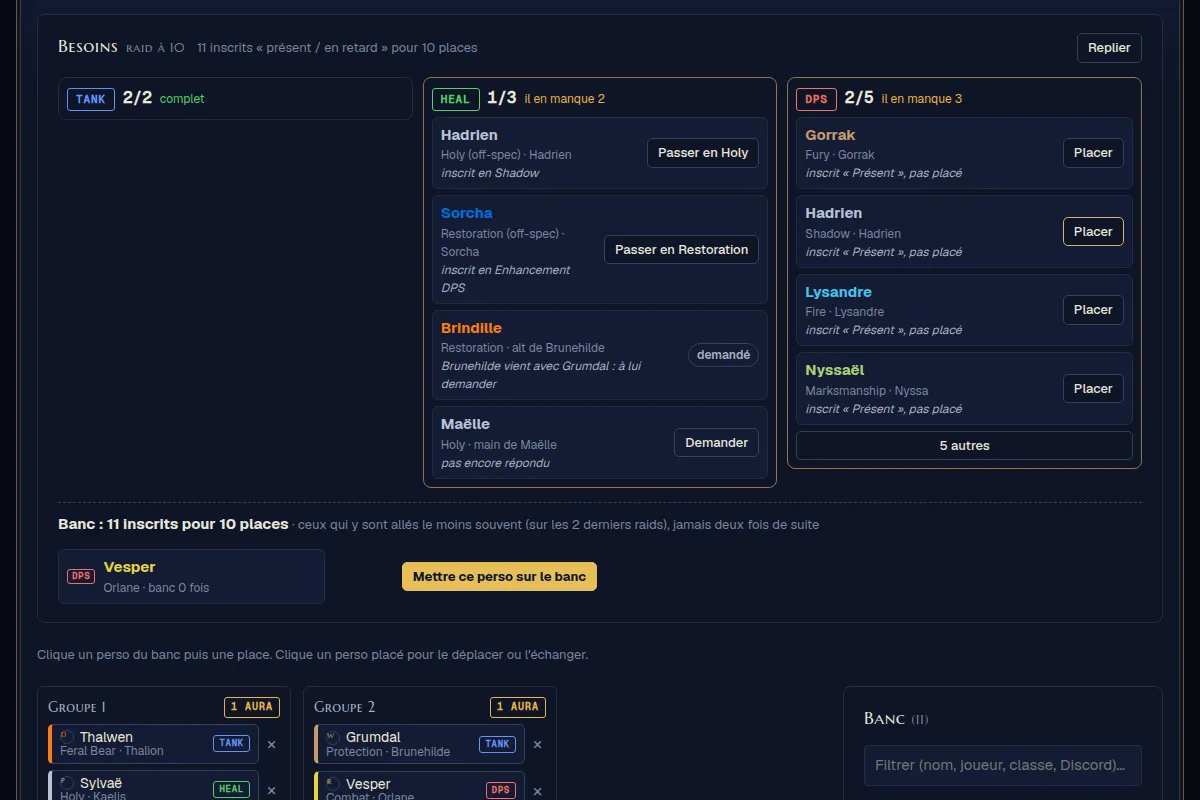
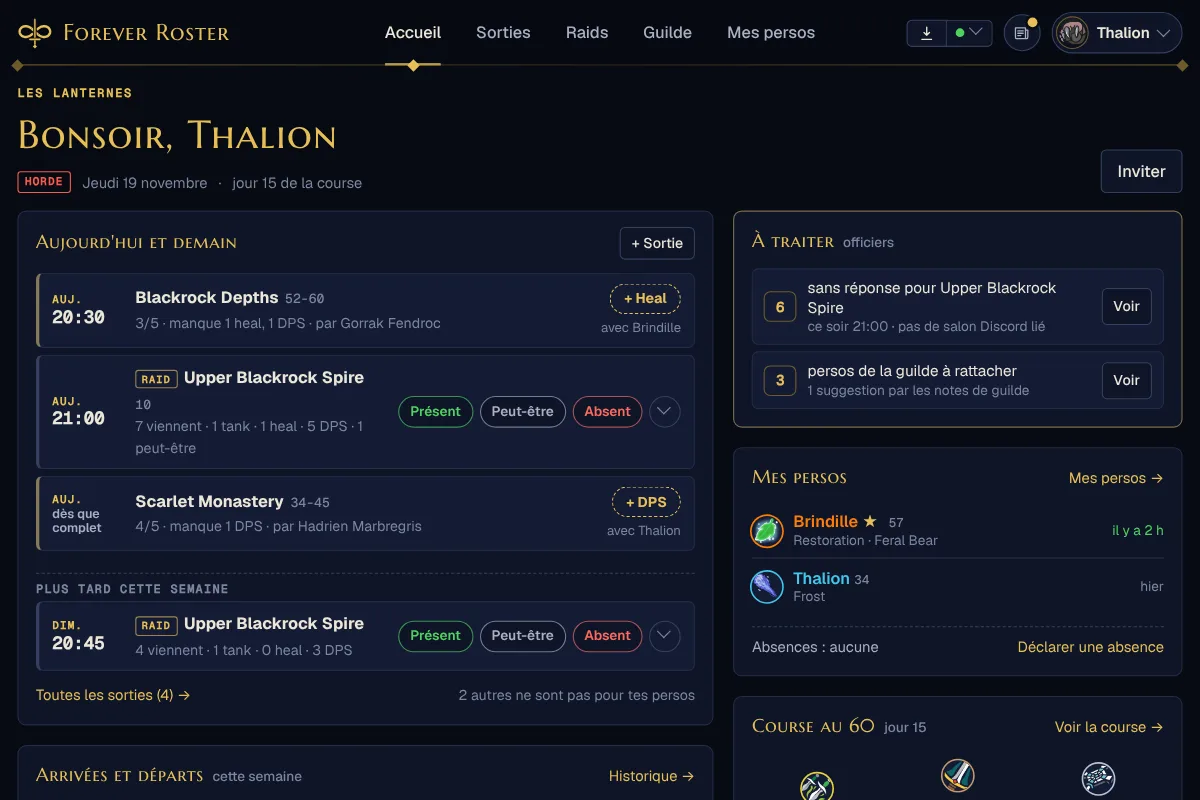
Accueil public de Forever Roster à jour pour la sortie
- Texte centré sur ce qui sert au lancement : sorties donjon, Course au 60, la guilde, puis raids,
  butin et persos ; plus de « fiche du boss en le ciblant » (plus possible en instance)
- Image héros (et aperçu des liens partagés) : l'Accueil d'une guilde fictive un jeudi soir en pleine
  course, au lieu de la compo d'un raid de l'ancienne interface
- Bandeau « sortie le 5 novembre » qui devient tout seul « sorti le 5 novembre » (landing.js, data-launch)
- e2e/captures-forever.spec.ts (CAPTURES=1) : guilde de 24 membres, sorties, raids, course ; serveur et
  base à l'heure du 19/11 avec libfaketime, le navigateur prend l'heure du serveur

Claude-Session: https://claude.ai/code/session_01A13akkkxskdMvHN7dJHyAH

diff --git a/e2e/captures-forever.spec.ts b/e2e/captures-forever.spec.ts
@@ -1,0 +1,240 @@
+import { expect, test, type Page } from "@playwright/test";
+import { mkdirSync, statSync } from "node:fs";
+import path from "node:path";
+import pg from "pg";
+
+/**
+ * Captures de Forever Roster « guilde en marche » : l'image héros de l'accueil public (apps/web/public/landing/img/forever.webp)
+ * et des aperçus dans test-results/shots/forever/ : Accueil (sombre, clair, téléphone), Sorties, Course au 60, Guilde.
+ * Guilde fictive de 24 membres (aucun vrai pseudo ni adresse) un jeudi soir en pleine course : jeudi 19 novembre 2026, 19:40.
+ *
+ * La course ne part qu'à la sortie du jeu : le serveur et sa base doivent tourner à cette date, avec libfaketime
+ * (sudo apt install faketime). Le navigateur prend l'heure du serveur (en-tête Date de l'API). Avec les icônes de Pahpool
+ * (dossier icons/ copié dans apps/web/public/icons/ avant npm run build) l'image est plus parlante ; sans, initiales.
+ *
+ *   OFF=$(( $(date -d 2026-11-19T18:40:00Z +%s) - $(date +%s) ))   # même décalage pour la base et l'API
+ *   LIB=/usr/lib/x86_64-linux-gnu/faketime/libfaketimeMT.so.1
+ *   # Base de test à part (port 5433, rôle forever, base forever_e2e vide), démarrée avec l'horloge décalée :
+ *   sudo -u postgres env LD_PRELOAD=$LIB FAKETIME=+$OFF pg_ctl -D <dossier du cluster> -o "-p 5433 -k /tmp" start
+ *   LD_PRELOAD=$LIB FAKETIME=+$OFF DATABASE_URL_E2E=postgres://forever:forever@127.0.0.1:5433/forever_e2e node e2e/start.mjs &
+ *   CAPTURES=1 DATABASE_URL_E2E=postgres://forever:forever@127.0.0.1:5433/forever_e2e npx playwright test e2e/captures-forever.spec.ts
+ */
+test.skip(!process.env.CAPTURES, "captures seulement sur demande (CAPTURES=1)");
+
+const OUT = path.resolve("test-results/shots/forever");
+const HERO = path.resolve("apps/web/public/landing/img/forever.webp");
+const DB = process.env.DATABASE_URL_E2E ?? "postgres://forever:forever@localhost:5432/forever_e2e";
+const PASSWORD = "une phrase de passe pour la démo";
+const DAY = 86400e3;
+const RACE = Date.UTC(2026, 10, 4, 23, 0, 0);
+const guid = (n: number) => `Player-4620-${(0xB000 + n).toString(16).toUpperCase().padStart(8, "0")}`;
+
+// nom complet, CLASSE, niveau, rang, n° du rang, note, 60 atteint le jour (null : pas encore)
+const MEMBERS: [string, string, number, string, number, string, number | null][] = [
+  ["Kaeldra Brisevent", "WARRIOR", 60, "Maître de guilde", 0, "", 9.9],
+  ["Brindille Feuillevive", "DRUID", 57, "Officier", 1, "", null],
+  ["Vex Ombrelame", "ROGUE", 60, "Officier", 1, "", 11.8],
+  ["Ysalis Cendrevent", "PRIEST", 60, "Membre", 3, "", 13.4],
+  ["Gorrak Fendroc", "WARRIOR", 58, "Vétéran", 2, "", null],
+  ["Nessa Flotsombre", "SHAMAN", 55, "Officier", 1, "", null],
+  ["Pikou Patacuivre", "MAGE", 52, "Membre", 3, "", null],
+  ["Morvh Sombreval", "MAGE", 51, "Membre", 3, "", null],
+  ["Tavish Noircoeur", "WARLOCK", 49, "Membre", 3, "", null],
+  ["Elwin Hautepine", "DRUID", 47, "Membre", 3, "", null],
+  ["Sorcha Ventebrume", "SHAMAN", 46, "Membre", 3, "", null],
+  ["Nyssaël Tirelune", "HUNTER", 45, "Membre", 3, "", null],
+  ["Hadrien Marbregris", "PRIEST", 44, "Membre", 3, "", null],
+  ["Lysandre Feuardent", "MAGE", 42, "Membre", 3, "", null],
+  ["Brakka Crocsang", "ROGUE", 39, "Membre", 3, "", null],
+  ["Grumdal Pierrefer", "WARRIOR", 40, "Membre", 3, "", null],
+  ["Isendra Vagueclaire", "SHAMAN", 38, "Membre", 3, "", null],
+  ["Sylvaë Pluiedor", "PRIEST", 36, "Membre", 3, "", null],
+  ["Thalion Cendrebois", "MAGE", 34, "Officier", 1, "", null],
+  ["Mirelle Lunargent", "HUNTER", 33, "Membre", 3, "", null],
+  ["Thorn Ecorcefer", "WARLOCK", 31, "Membre", 3, "", null],
+  ["Vexelle Ombrelame", "SHAMAN", 29, "Membre", 3, "Alt de Vex", null],
+  ["Zirta Pellerouge", "PRIEST", 21, "Recrue", 4, "", null],
+  ["Orgen Brasdefer", "WARRIOR", 17, "Recrue", 4, "", null],
+];
+const G = Object.fromEntries(MEMBERS.map(([n], i) => [n, guid(i + 1)]));
+
+function frl(now: number) {
+  const lines = [
+    ...MEMBERS.map(([name, cls, lv, rank, ri, note], i) => ["M", name, cls, lv, rank, ri, i % 5 === 0 ? 1 : 0, i % 5 === 0 ? 0 : (i % 7) * 3 + 1, note, "", guid(i + 1)].join(";")),
+    `J;${now};Brindille Feuillevive`,
+    "E;join;Orgen Brasdefer;;;20",
+    "E;invite;Kaeldra Brisevent;Orgen Brasdefer;;20",
+    "E;quit;Grokk Malmain;;;47",
+    "E;promote;Kaeldra Brisevent;Nessa Flotsombre;1;70",
+    "E;join;Zirta Pellerouge;;;74",
+    "E;invite;Vex Ombrelame;Zirta Pellerouge;;74",
+    `P;Brindille;57;61200;115200;${now};${G["Brindille Feuillevive"]}`,
+  ];
+  return [`FRL;1;Les Lanternes;Horde;${now};Brindille Feuillevive;1;Officier;${MEMBERS.length + 0};Forever EU;1.6.2`, ...lines, `END;${lines.length}`].join("\n");
+}
+
+const paste = (page: Page, text: string) => page.evaluate(t => {
+  const dt = new DataTransfer();
+  dt.setData("text/plain", t);
+  (document.activeElement as HTMLElement | null)?.blur();
+  document.dispatchEvent(new ClipboardEvent("paste", { clipboardData: dt, bubbles: true }));
+}, text);
+
+test("guilde en marche : image de l'accueil public, Accueil, Sorties, Course", async ({ page }) => {
+  test.setTimeout(180_000);
+  mkdirSync(OUT, { recursive: true });
+  // Heure du serveur (décalée par libfaketime) : le navigateur s'y met aussi
+  const date = (await page.request.get("/api/health")).headers()["date"];
+  const now = Date.parse(date ?? "") || Date.now();
+  test.skip(now < RACE + DAY, "le serveur n'est pas après la sortie : voir l'en-tête du fichier (libfaketime)");
+  await page.clock.install({ time: now });
+  await page.emulateMedia({ colorScheme: "dark" });
+  await page.setViewportSize({ width: 1360, height: 1000 });
+
+  const email = `thalion-${Date.now()}@example.test`;
+  await page.goto("/register");
+  await page.fill("#dn", "Thalion"); await page.fill("#em", email); await page.fill("#pw", PASSWORD); await page.fill("#pw2", PASSWORD);
+  await page.getByRole("button", { name: /créer/i }).click();
+  await page.waitForLoadState("networkidle");
+  const v = new pg.Client({ connectionString: DB }); await v.connect();
+  await expect.poll(async () => (await v.query("update users set email_verified_at = now() where email = $1", [email])).rowCount).toBe(1);
+  await v.end();
+  await page.goto("/login");
+  await page.fill("#email", email); await page.fill("#password", PASSWORD);
+  await page.getByRole("button", { name: /se connecter/i }).click();
+  await page.waitForLoadState("networkidle");
+
+  const ids = await page.evaluate(async () => {
+    const { csrfToken } = await (await fetch("/api/auth/me")).json();
+    const h = { "content-type": "application/json", "x-csrf-token": csrfToken };
+    const j = async (url: string, method: string, body: unknown) => {
+      const r = await fetch(url, { method, headers: h, body: JSON.stringify(body) });
+      const d = await r.json().catch(() => null);
+      if (!r.ok) throw new Error(`${url} ${r.status} ${JSON.stringify(d)}`);
+      return d;
+    };
+    const g = (await j("/api/groups", "POST", { name: "Les Lanternes" })).group.id as string;
+    const bri = (await j("/api/characters", "POST", { name: "Brindille", cls: "Druid", race: "Tauren", spec1: "Restoration", spec2: "Feral Bear", level: 57 })).character.id as string;
+    const tha = (await j("/api/characters", "POST", { name: "Thalion", cls: "Mage", race: "Undead", spec1: "Frost", level: 34 })).character.id as string;
+    await j(`/api/groups/${g}/characters/${bri}`, "PUT", { assigned: true, main: true });
+    await j(`/api/groups/${g}/characters/${tha}`, "PUT", { assigned: true });
+    return { g, bri, tha };
+  });
+
+  const db = new pg.Client({ connectionString: DB });
+  await db.connect();
+  try {
+    const at = (d: number) => new Date(RACE + d * DAY);
+    // Fiches de Thalion : GUID et nom complet (comme après une synchro de l'addon 1.6.2), synchronisées récemment
+    await db.query("update characters set guid = $1, addon_synced_at = $2 where id = $3", [G["Brindille Feuillevive"], new Date(now - 2.2 * 3600e3), ids.bri]);
+    await db.query("update characters set guid = $1, addon_synced_at = $2 where id = $3", [G["Thalion Cendrebois"], new Date(now - 26 * 3600e3), ids.tha]);
+  } finally { await db.end(); }
+
+  // Relevé de la guilde collé par Thalion (officier) : la guilde du jeu se lie toute seule
+  await page.goto(`/groups/${ids.g}`);
+  await page.waitForLoadState("networkidle");
+  await paste(page, frl(Math.floor(now / 1000)));
+  await page.waitForTimeout(2500);
+
+  const db2 = new pg.Client({ connectionString: DB });
+  await db2.connect();
+  try {
+    const q = (s: string, p: unknown[] = []) => db2.query(s, p);
+    const at = (d: number) => new Date(RACE + d * DAY);
+    await q("update game_guilds set first_roster_at = $1, linked_at = $1 where group_id = $2", [at(0.4), ids.g]);
+    await q("update guild_members set first_seen_at = $1 where group_id = $2 and joined_at is null", [at(0.4), ids.g]);
+    // Niveaux de la course : une montée régulière, plus rapide au début ; les 60 aux jours donnés
+    await q("delete from guild_levels where group_id = $1", [ids.g]);
+    for (const [name, , lv, , , , sixty] of MEMBERS) {
+      const g = G[name]!;
+      const late = name === "Zirta Pellerouge" ? 12.2 : name === "Orgen Brasdefer" ? 13.8 : 0.1;
+      const endDay = sixty ?? 14.6 - (MEMBERS.findIndex(m => m[0] === name) % 4) * 0.3;
+      const start = name === "Zirta Pellerouge" || name === "Orgen Brasdefer" ? 8 : 2;
+      for (let l = start + 1; l <= lv; l++) {
+        const f = (l - start) / (lv - start);
+        const d = late + (endDay - late) * Math.pow(f, 1.6);
+        await q("insert into guild_levels (group_id, guid, level, reached_at, source) values ($1, $2, $3, $4, $5) on conflict do nothing",
+          [ids.g, g, l, at(d), name === "Brindille Feuillevive" ? "exact" : "roster"]);
+      }
+    }
+    // Podium recalculé d'après cet historique (le relevé l'avait figé sur « vus au premier relevé »)
+    await q("update game_guilds set podium = null where group_id = $1", [ids.g]);
+    // Autres joueurs du site, avec leur main dans la guilde
+    const users: Record<string, string> = {};
+    for (const [disp, char, cls, spec, lv, role] of [
+      ["Kael", "Kaeldra", "Warrior", "Protection", 60, "member"], ["Vexou", "Vex", "Rogue", "Combat", 60, "officer"],
+      ["Ysa", "Ysalis", "Priest", "Holy", 60, "member"], ["Gorrak", "Gorrak", "Warrior", "Fury", 58, "member"],
+      ["Nessa", "Nessa", "Shaman", "Restoration", 55, "officer"], ["Pikou", "Pikou", "Mage", "Fire", 52, "member"],
+      ["Hadrien", "Hadrien", "Priest", "Holy", 44, "member"], ["Lysandre", "Lysandre", "Mage", "Frost", 42, "member"],
+      ["Grumdal", "Grumdal", "Warrior", "Protection", 40, "member"],
+    ] as const) {
+      const full = MEMBERS.find(m => m[0].startsWith(`${char} `))![0];
+      const u = (await q("insert into users (display_name, email, email_verified_at, password_hash) values ($1, $2, now(), '$argon2id$v=19$m=19456,t=2,p=1$ZGVtbw$ZGVtbw') returning id", [disp, `${disp.toLowerCase()}-${Date.now()}@example.test`])).rows[0].id as string;
+      users[char] = u;
+      await q("insert into group_members (group_id, user_id, role) values ($1, $2, $3)", [ids.g, u, role]);
+      const c = (await q("insert into characters (user_id, name, cls, spec1, level, game, guid) values ($1, $2, $3, $4, $5, 'forever', $6) returning id", [u, char, cls, spec, lv, G[full]])).rows[0].id as string;
+      await q("insert into group_characters (group_id, character_id, user_id, is_main) values ($1, $2, $3, true)", [ids.g, c, u]);
+      users[`${char}:c`] = c;
+    }
+    // Raid de ce soir (21:00) et de dimanche : créés par Thalion
+    const mk = async (name: string, iso: string) => (await q("insert into raids (group_id, name, scheduled_at, size, loot_mode, created_by) values ($1, $2, $3, 10, 'council', (select user_id from group_members where group_id = $1 and role = 'owner')) returning id", [ids.g, name, iso])).rows[0].id as string;
+    const r1 = await mk("Upper Blackrock Spire", "2026-11-19T20:00:00Z");
+    const r2 = await mk("Upper Blackrock Spire", "2026-11-22T19:45:00Z");
+    const signup = (raid: string, who: string, cls: string, spec: string, status: string) =>
+      users[who] ? q("insert into raid_signups (raid_id, user_id, display_name, character_id, cls, spec, status) values ($1, $2, $3, $4, $5, $6, $7)", [raid, users[who], who, users[`${who}:c`], cls, spec, status])
+        : q("insert into raid_signups (raid_id, discord_user_id, display_name, cls, spec, status) values ($1, $2, $3, $4, $5, $6)", [raid, String(930000000000000000n + BigInt(Math.floor(Math.random() * 1e9))), who, cls, spec, status]);
+    for (const [w, c, s, st] of [["Kaeldra", "Warrior", "Protection", "present"], ["Vex", "Rogue", "Combat", "present"], ["Ysalis", "Priest", "Holy", "present"], ["Gorrak", "Warrior", "Fury", "present"],
+      ["Morvh", "Mage", "Frost", "present"], ["Tavish", "Warlock", "Affliction", "present"], ["Elwin", "Druid", "Restoration", "tentative"], ["Nyssaël", "Hunter", "Marksmanship", "present"]] as const) await signup(r1, w, c, s, st);
+    for (const [w, c, s, st] of [["Kaeldra", "Warrior", "Protection", "present"], ["Vex", "Rogue", "Combat", "present"], ["Gorrak", "Warrior", "Fury", "present"], ["Pikou", "Mage", "Fire", "present"]] as const) await signup(r2, w, c, s, st);
+    // Sorties d'aujourd'hui et de demain
+    const outing = async (dungeon: string, title: string, min: number, max: number, dayIso: string, iso: string | null, creator: string, note = "") => {
+      const exp = iso ? new Date(Date.parse(iso) + 2 * 3600e3) : new Date(`${dayIso}T22:59:00Z`);
+      return (await q("insert into outings (group_id, dungeon, title, min_level, max_level, day, scheduled_at, expires_at, creator_name, created_by, note) values ($1, $2, $3, $4, $5, $6, $7, $8, $9, $10, $11) returning id",
+        [ids.g, dungeon, title, min, max, dayIso, iso, exp, creator, users[creator.split(" ")[0]!] ?? null, note])).rows[0].id as string;
+    };
+    const os = (o: string, who: string, cls: string, spec: string, role: string, waiting = false) =>
+      users[who] ? q("insert into outing_signups (outing_id, user_id, display_name, character_id, character_name, cls, spec, role, waiting_since) values ($1, $2, $3, $4, $3, $5, $6, $7, $8)", [o, users[who], who, users[`${who}:c`], cls, spec, role, waiting ? new Date(now - 3600e3) : null])
+        : q("insert into outing_signups (outing_id, discord_user_id, display_name, character_name, cls, spec, role, waiting_since) values ($1, $2, $3, $3, $4, $5, $6, $7)", [o, String(940000000000000000n + BigInt(Math.floor(Math.random() * 1e9))), who, cls, spec, role, waiting ? new Date(now - 3600e3) : null]);
+    const o1 = await outing("blackrock-depths", "Blackrock Depths", 52, 60, "2026-11-19", "2026-11-19T19:30:00Z", "Gorrak Fendroc", "Clé de l'ombreforge");
+    await os(o1, "Kaeldra", "Warrior", "Protection", "Tank"); await os(o1, "Gorrak", "Warrior", "Fury", "DPS"); await os(o1, "Pikou", "Mage", "Fire", "DPS");
+    const o2 = await outing("scarlet-monastery", "Scarlet Monastery", 34, 45, "2026-11-19", null, "Hadrien Marbregris", "Cathédrale");
+    await os(o2, "Grumdal", "Warrior", "Protection", "Tank"); await os(o2, "Hadrien", "Priest", "Holy", "Heal"); await os(o2, "Lysandre", "Mage", "Frost", "DPS"); await os(o2, "Brakka", "Rogue", "Combat", "DPS");
+    const o3 = await outing("stratholme", "Stratholme", 58, 60, "2026-11-20", "2026-11-20T20:00:00Z", "Vex Ombrelame", "Côté mort-vivant");
+    await os(o3, "Kaeldra", "Warrior", "Protection", "Tank"); await os(o3, "Ysalis", "Priest", "Holy", "Heal"); await os(o3, "Vex", "Rogue", "Combat", "DPS");
+    await os(o3, "Gorrak", "Warrior", "Fury", "DPS"); await os(o3, "Morvh", "Mage", "Frost", "DPS"); await os(o3, "Tavish", "Warlock", "Affliction", "DPS", true);
+    const o4 = await outing("zulfarrak", "Zul'Farrak", 44, 54, "2026-11-20", "2026-11-20T18:00:00Z", "Nessa Flotsombre");
+    await os(o4, "Nessa", "Shaman", "Restoration", "Heal"); await os(o4, "Elwin", "Druid", "Feral Bear", "Tank");
+  } finally { await db2.end(); }
+
+  const shots = async (p: Page, name: string) => { await p.waitForLoadState("networkidle"); await p.waitForTimeout(400); await p.screenshot({ path: `${OUT}/${name}.png`, fullPage: true }); };
+  await page.goto(`/groups/${ids.g}`);
+  await expect(page.locator(".hm")).toBeVisible();
+  await expect(page.getByText("jour 15 de la course")).toBeVisible();
+  await shots(page, "accueil-sombre");
+
+  // Image héros de l'accueil public, 1200 × 800 : l'Accueil en 1100 × 733, agrandi d'un dixième (lisible en petit), thème sombre
+  const hero = await page.context().browser()!.newContext({
+    baseURL: new URL(page.url()).origin, storageState: await page.context().storageState(), viewport: { width: 1100, height: 733 }, deviceScaleFactor: 1200 / 1100, colorScheme: "dark", locale: "fr-FR",
+  });
+  const hp = await hero.newPage();
+  await hp.clock.install({ time: now });
+  await hp.goto(`/groups/${ids.g}`);
+  await expect(hp.getByText("jour 15 de la course")).toBeVisible();
+  await hp.waitForLoadState("networkidle"); await hp.waitForTimeout(400);
+  const { default: sharp } = await import("sharp");
+  await sharp(await hp.screenshot()).resize(1200, 800).webp({ quality: 82 }).toFile(HERO);
+  await hero.close();
+  const meta = await sharp(HERO).metadata();
+  expect([meta.width, meta.height]).toEqual([1200, 800]);
+  expect(statSync(HERO).size).toBeLessThan(160_000);
+
+  await page.setViewportSize({ width: 1360, height: 1000 });
+  await page.goto(`/groups/${ids.g}/sorties`); await shots(page, "sorties-sombre");
+  await page.goto(`/groups/${ids.g}/membres/course`); await shots(page, "course-sombre");
+  await page.goto(`/groups/${ids.g}/membres`); await shots(page, "guilde-sombre");
+  await page.emulateMedia({ colorScheme: "light" });
+  await page.goto(`/groups/${ids.g}`); await shots(page, "accueil-clair");
+  await page.emulateMedia({ colorScheme: "dark" });
+  await page.setViewportSize({ width: 390, height: 844 });
+  await page.goto(`/groups/${ids.g}`); await shots(page, "accueil-telephone");
+});

diff --git a/apps/web/public/landing/forever.html b/apps/web/public/landing/forever.html
@@ -4,17 +4,17 @@
 <meta charset="utf-8">
 <meta name="viewport" content="width=device-width, initial-scale=1">
 <meta name="color-scheme" content="light dark">
-<title>Forever Roster : raids, soft reserve et conseil du butin pour WoW Forever</title>
-<meta name="description" content="Organise ta guilde sur WoW Forever : persos à jour depuis le jeu, inscriptions sur le site ou Discord, compo assistée, soft reserve, conseil du butin. Gratuit.">
+<title>Forever Roster : sorties, raids et Course au 60 pour ta guilde WoW Forever</title>
+<meta name="description" content="Organise ta guilde sur WoW Forever : sorties donjon en quelques clics, raids et inscriptions sur le site ou Discord, Course au 60, persos à jour depuis le jeu. Gratuit.">
 <meta property="og:type" content="website">
 <meta property="og:site_name" content="Forever Roster">
-<meta property="og:title" content="Forever Roster : raids, soft reserve et conseil du butin pour WoW Forever">
-<meta property="og:description" content="Organise ta guilde sur WoW Forever : persos à jour depuis le jeu, inscriptions sur le site ou Discord, compo assistée, soft reserve, conseil du butin. Gratuit.">
+<meta property="og:title" content="Forever Roster : sorties, raids et Course au 60 pour ta guilde WoW Forever">
+<meta property="og:description" content="Organise ta guilde sur WoW Forever : sorties donjon en quelques clics, raids et inscriptions sur le site ou Discord, Course au 60, persos à jour depuis le jeu. Gratuit.">
 <meta property="og:url" content="https://forever-roster.sleyvazh.fr/">
 <meta property="og:image" content="https://forever-roster.sleyvazh.fr/landing/img/forever.webp">
 <meta property="og:image:width" content="1200">
 <meta property="og:image:height" content="800">
-<meta property="og:image:alt" content="Page d&#x27;un raid : besoins par rôle, inscrits à placer et compo en groupes (données fictives)">
+<meta property="og:image:alt" content="Accueil d&#x27;une guilde un soir de semaine : sorties et raid du soir, inscription en un clic, Course au 60 (données fictives)">
 <meta property="og:locale" content="fr_FR">
 <meta name="twitter:card" content="summary_large_image">
 <link rel="canonical" href="https://forever-roster.sleyvazh.fr/">
@@ -33,20 +33,20 @@
 <main class="wrap">
   <div class="hero">
     <div>
-      <span class="pill">WoW Forever · sortie le 5 novembre</span>
+      <span class="pill" data-launch="2026-11-04T23:00:00Z" data-after="WoW Forever · sorti le 5 novembre">WoW Forever · sortie le 5 novembre</span>
       <h1>Ta guilde <em>Forever</em>, organisée sans prise de tête</h1>
-      <p>Persos, raids, compo, soft reserve et conseil du butin pour WoW Forever. Un site, un addon et un bot Discord qui travaillent ensemble.</p>
+      <p>Sorties donjon, raids, Course au 60 et persos à jour depuis le jeu. Un site, un addon et un bot Discord qui travaillent ensemble.</p>
       <div class="cta"><a class="btn primary" href="/register">Créer un compte</a><a class="btn" href="/login">Se connecter</a></div>
     </div>
-    <figure class="shot"><img src="/landing/img/forever.webp" width="1200" height="800" alt="Page d&#x27;un raid : besoins par rôle, inscrits à placer et compo en groupes (données fictives)" loading="eager"><figcaption>La compo assistée d&#x27;un raid (données fictives).</figcaption></figure>
+    <figure class="shot"><img src="/landing/img/forever.webp" width="1200" height="800" alt="Accueil d&#x27;une guilde un soir de semaine : sorties et raid du soir, inscription en un clic, Course au 60 (données fictives)" loading="eager"><figcaption>L&#x27;Accueil d&#x27;une guilde un soir de semaine (données fictives).</figcaption></figure>
   </div>
   <section id="fonctions" aria-labelledby="f-t">
     <h2 id="f-t">Ce que fait Forever Roster</h2>
     <p class="sub">Gratuit, sans publicité, entre joueurs.</p>
-    <div class="grid"><article class="card"><h3>Tes persos</h3><p>Stuff, talents et métiers mis à jour depuis le jeu en un Ctrl+V, avec des infobulles comme en jeu.</p></article><article class="card"><h3>Raids et inscriptions</h3><p>Inscription en un clic sur le site ou sur Discord, raids récurrents, rappels.</p></article><article class="card"><h3>Compo assistée</h3><p>Ce qui manque par rôle et qui peut combler : off-spec, alts, banc équitable.</p></article><article class="card"><h3>Soft reserve et conseil</h3><p>Réservations avec bonus SR+, conseil du butin avec votes, attribué en jeu par l&#x27;addon.</p></article><article class="card"><h3>Préparation</h3><p>Les consommables de chacun et une fiche par boss : qui tanke, qui soigne.</p></article><article class="card"><h3>Artisans</h3><p>Qui crafte quoi, et des commandes aux crafteurs de la guilde, avec leur salon Discord.</p></article></div>
+    <div class="grid"><article class="card"><h3>Sorties donjon</h3><p>Un groupe de 5 en quelques clics, avec les persos de la guilde qui ont le niveau. On s&#x27;inscrit en un clic sur le site ou sur Discord ; en jeu, l&#x27;addon propose d&#x27;inviter le groupe.</p></article><article class="card"><h3>Course au 60</h3><p>Le classement de la guilde depuis la sortie, le podium des premiers 60 et les annonces sur Discord, sans rien saisir.</p></article><article class="card"><h3>La guilde</h3><p>La liste de guilde du jeu, les mains et leurs alts, les arrivées et départs, qui crafte quoi.</p></article><article class="card"><h3>Raids et inscriptions</h3><p>Inscription en un clic sur le site ou sur Discord, raids récurrents, rappels, compo assistée.</p></article><article class="card"><h3>Butin</h3><p>Soft reserve avec bonus SR+, ou conseil du butin avec votes, attribué en jeu par l&#x27;addon.</p></article><article class="card"><h3>Tes persos</h3><p>Stuff, talents et métiers mis à jour depuis le jeu, avec des infobulles comme en jeu.</p></article></div>
   </section>
   <section aria-label="L'addon et le bot Discord" style="padding-top:0">
-    <div class="duo"><article class="card"><h3>L&#x27;addon</h3><p>Synchro par copier-coller, butin en jeu, fiche du boss en le ciblant, appel aux consommables.</p></article><article class="card"><h3>Le bot Discord</h3><p>Annonces avec boutons d&#x27;inscription, rappels et relances en message privé, avis anonymes.</p></article></div>
+    <div class="duo"><article class="card"><h3>L&#x27;addon</h3><p>Relève la guilde et tes persos en silence. Un seul joueur colle les données du site, l&#x27;addon les partage avec la guilde. Sorties du soir, butin en jeu.</p></article><article class="card"><h3>Le bot Discord</h3><p>Annonces des raids et des sorties avec boutons d&#x27;inscription, rappels en message privé, annonces de la Course au 60, avis anonymes.</p></article></div>
     <p class="same">Déjà un compte sur Roster (WoW Retail) ? C&#x27;est le même : connecte-toi avec ton e-mail et ton mot de passe.</p>
   </section>
 </main>

diff --git a/apps/web/public/landing/landing.js b/apps/web/public/landing/landing.js
@@ -3,6 +3,11 @@
   // Page d'arrivée de qui est déjà connecté : l'Accueil de sa guilde (Forever Roster), Mes persos (Roster)
   var script = document.currentScript;
   var home = (script && script.getAttribute("data-home")) || "/persos";
+  // Bandeau daté (data-launch, data-after) : son texte change tout seul une fois la date passée
+  var pills = document.querySelectorAll("[data-launch][data-after]");
+  for (var i = 0; i < pills.length; i++) {
+    if (Date.now() >= Date.parse(pills[i].getAttribute("data-launch"))) pills[i].textContent = pills[i].getAttribute("data-after");
+  }
   try {
     var t = localStorage.getItem("fr-theme");
     if (t === "light" || t === "dark") document.documentElement.setAttribute("data-theme", t);

diff --git a/README.md b/README.md
@@ -85,7 +85,7 @@ DATABASE_URL_E2E=postgres://forever:forever@localhost:5432/forever_e2e npm run t
 
 Un vrai navigateur rejoue le parcours d'un joueur : inscription, fiche, portrait, patrons, équipement, groupe. Le site testé est la version construite pour la production, servie avec les mêmes en-têtes que Caddy (lus dans `infra/Caddyfile`). Toute erreur JavaScript ou violation de la CSP fait échouer le test. C'est ce filet qui manquait quand un envoi d'image fonctionnait en développement mais pas en production.
 
-Les captures de `docs/screenshots` se régénèrent de la même façon, avec des joueurs et des persos fictifs, sans les icônes du jeu (elles ne sont jamais dans le dépôt) : `CAPTURES=1 npx playwright test e2e/captures.spec.ts` sur une base e2e vide. Celles de Roster (`docs/screenshots/roster`) et l'image héros de son accueil public (`apps/web/public/landing/img/retail.webp`) viennent de `e2e/captures-roster.spec.ts`, de la même façon.
+Les captures de `docs/screenshots` se régénèrent de la même façon, avec des joueurs et des persos fictifs, sans les icônes du jeu (elles ne sont jamais dans le dépôt) : `CAPTURES=1 npx playwright test e2e/captures.spec.ts` sur une base e2e vide. Celles de Roster (`docs/screenshots/roster`) et l'image héros de son accueil public (`apps/web/public/landing/img/retail.webp`) viennent de `e2e/captures-roster.spec.ts`, de la même façon. L'image héros de l'accueil de Forever Roster (`apps/web/public/landing/img/forever.webp`, une guilde en pleine Course au 60) vient de `e2e/captures-forever.spec.ts`, avec le serveur et sa base à l'heure du 19 novembre 2026 (libfaketime, commandes en tête du fichier).
 
 ## Déploiement
 
